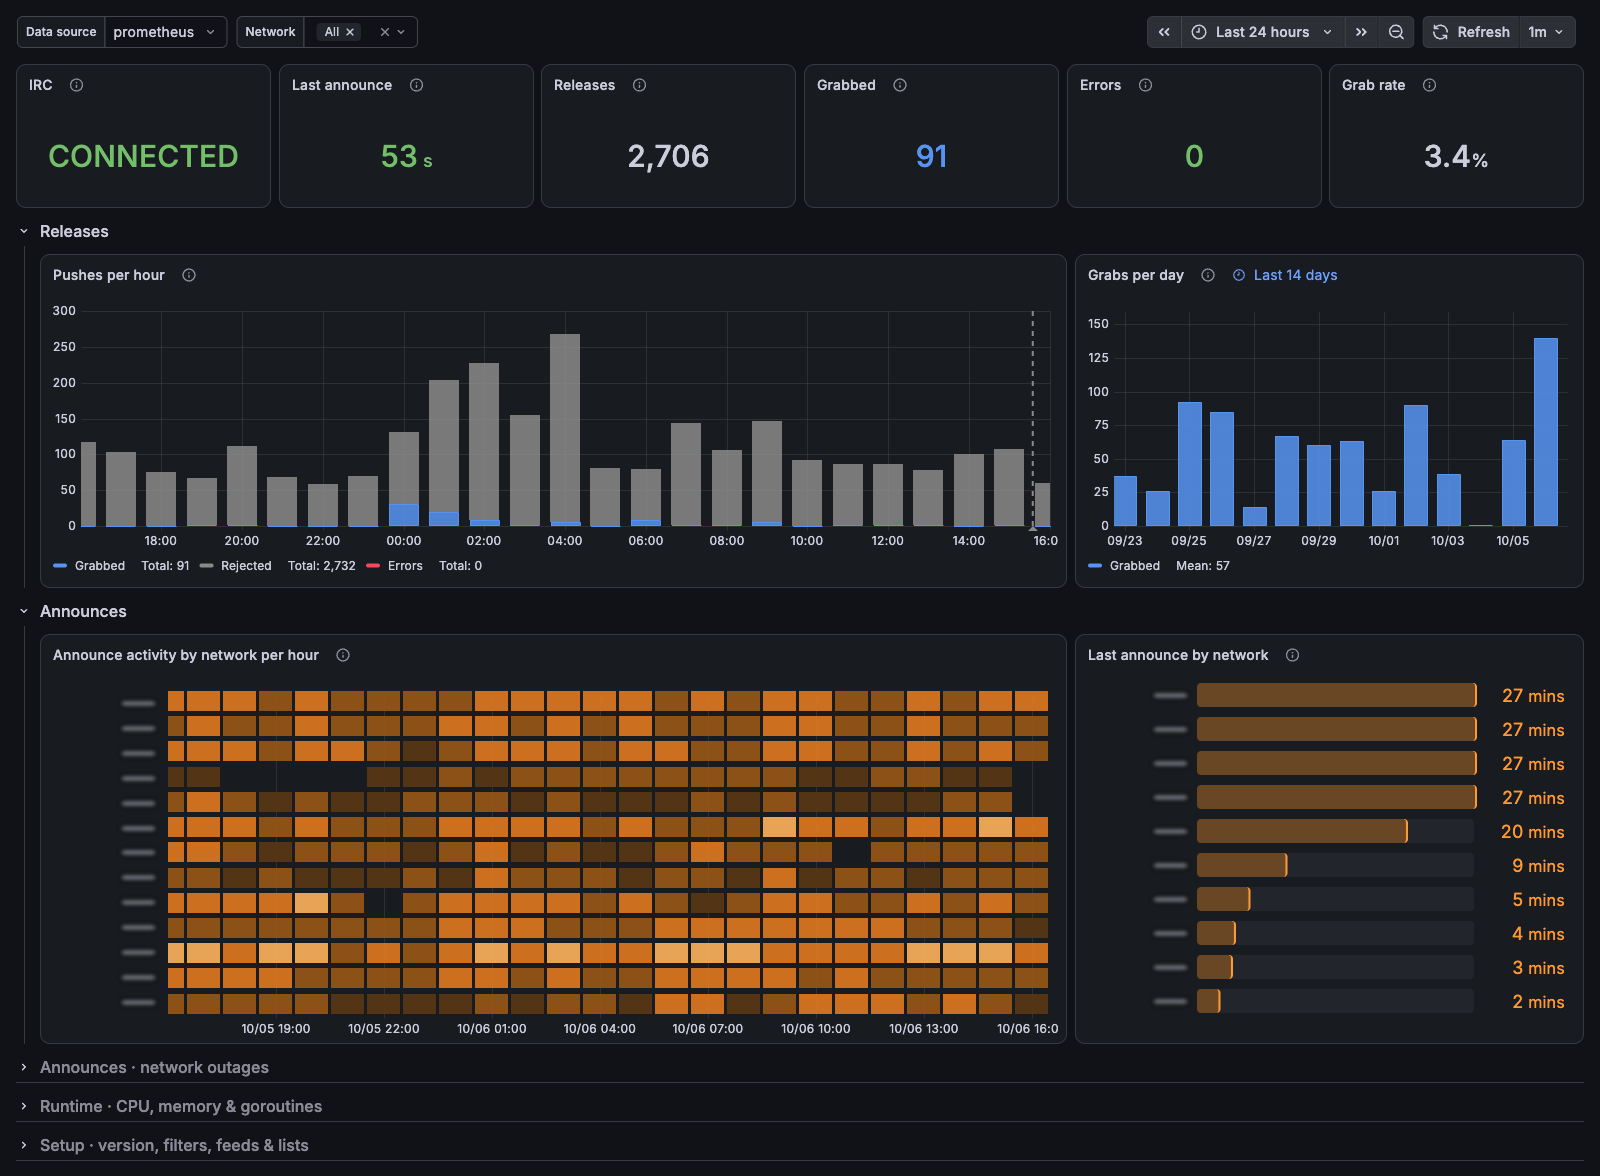
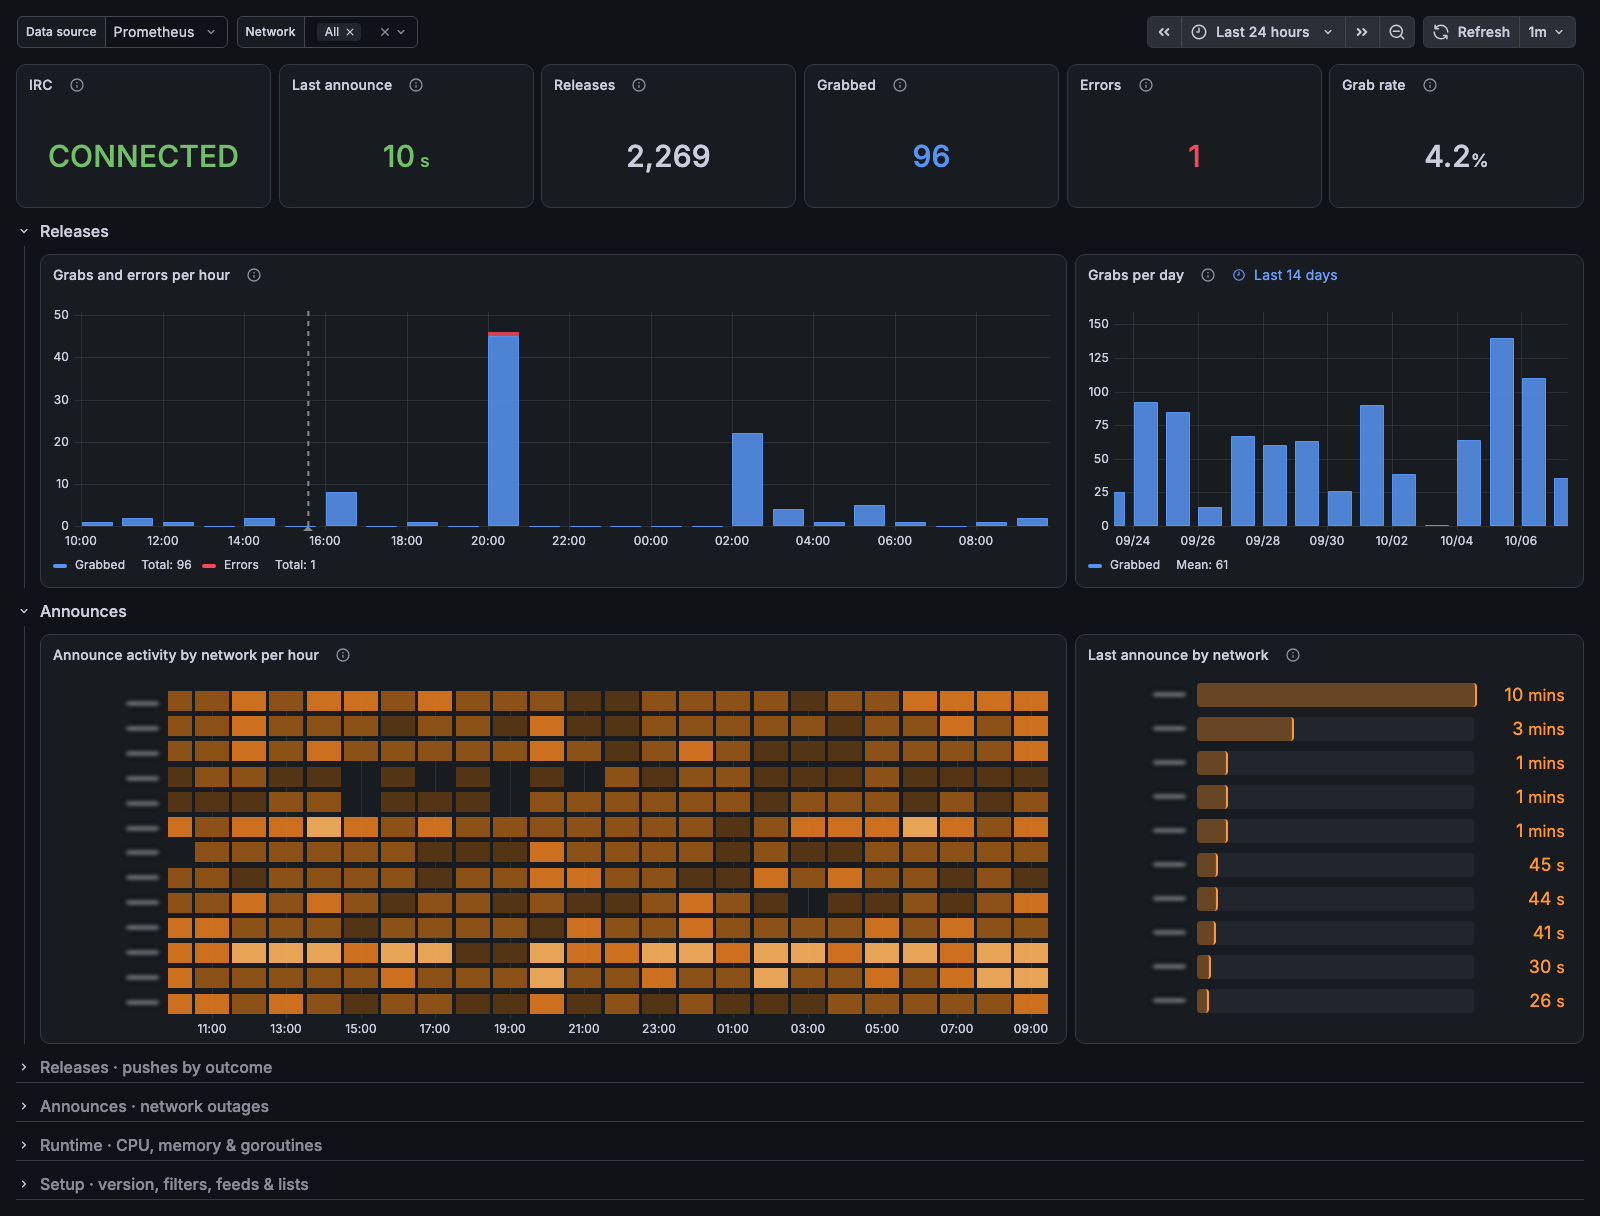
fix(autobrr): show grabs and errors per hour, collapse pushes by outcome
Rejections were 97 % of the old stacked bars and hid the grabs. The all-outcomes chart moves to a new collapsed row.

diff --git a/autobrr/README.md b/autobrr/README.md
@@ -8,9 +8,10 @@ autobrr: IRC status, announces by network, and releases matched, grabbed and rej
 
 ## Overview
 
-Built on the Prometheus metrics exported by [autobrr](https://github.com/autobrr/autobrr). The top row shows IRC status, the last announce, releases matched, releases grabbed, push errors and the grab rate in the selected range. Below it, pushes per hour by outcome, grabs per day, announce activity by network per hour and the last announce by network.
+Built on the Prometheus metrics exported by [autobrr](https://github.com/autobrr/autobrr). The top row shows IRC status, the last announce, releases matched, releases grabbed, push errors and the grab rate in the selected range. Below it, grabs and errors per hour, grabs per day, announce activity by network per hour and the last announce by network.
 
 Collapsed rows:
+- **Releases · pushes by outcome:** pushes per hour: grabbed, rejected or failed with an error.
 - **Announces · network outages:** IRC networks down over time and downtime by network.
 - **Runtime · CPU, memory & goroutines:** autobrr CPU, memory and goroutines.
 - **Setup · version, filters, feeds & lists:** version, uptime, enabled filters, networks, feeds and lists, and when each feed and list last ran.
@@ -24,14 +25,18 @@ Note: release counts come from autobrr's database, so release cleanup jobs don't
 
 ## Collapsed rows
 
+### Releases · pushes by outcome
+
+![Releases · pushes by outcome](2-releases-pushes-by-outcome.png)
+
 ### Announces · network outages
 
-![Announces · network outages](2-announces-network-outages.png)
+![Announces · network outages](3-announces-network-outages.png)
 
 ### Runtime · CPU, memory & goroutines
 
-![Runtime · CPU, memory & goroutines](3-runtime-cpu-memory-and-goroutines.png)
+![Runtime · CPU, memory & goroutines](4-runtime-cpu-memory-and-goroutines.png)
 
 ### Setup · version, filters, feeds & lists
 
-![Setup · version, filters, feeds & lists](4-setup-version-filters-feeds-and-lists.png)
+![Setup · version, filters, feeds & lists](5-setup-version-filters-feeds-and-lists.png)
